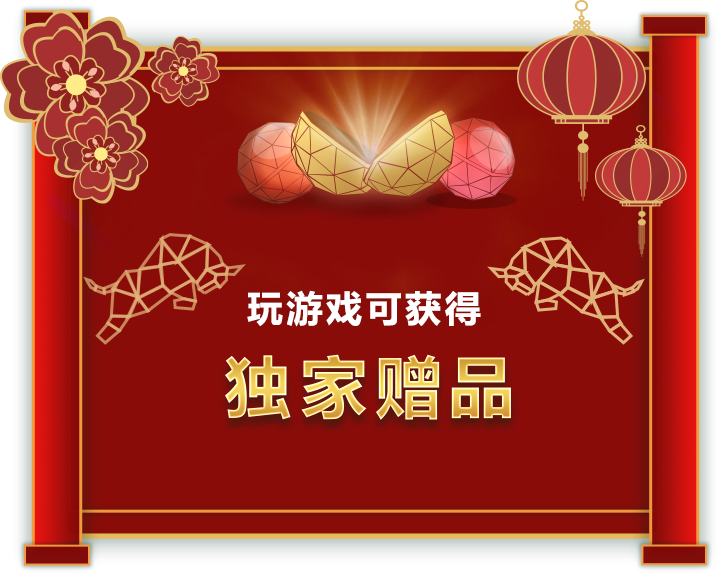
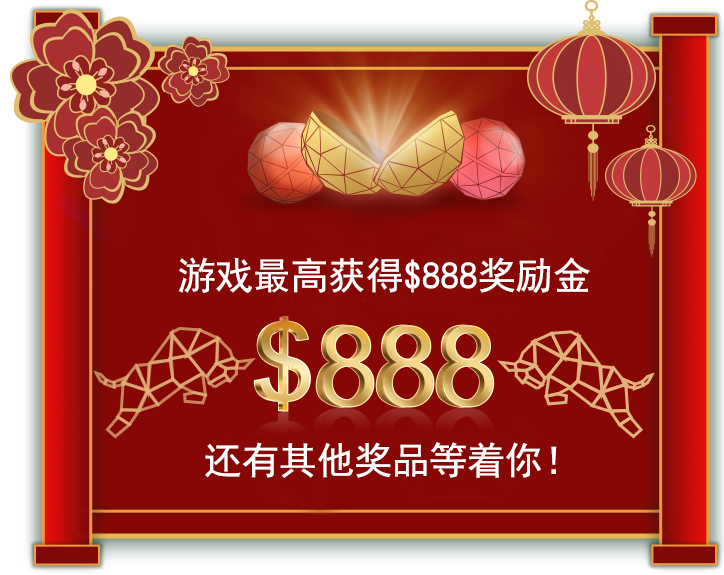
#CN Version content fix, and misaligment fix. prevent Chinese character input in register page.

diff --git a/src/HowToRedeem.ts b/src/HowToRedeem.ts
@@ -10,6 +10,7 @@ class HowToRedeem extends eui.UILayer {
     }
      
     private createView(): void {
+          var _cnt = new egret.DisplayObjectContainer();
           var p1 = createBitmap("how to redeem 1_png");
           var p2 = createBitmap("how to redeem 2_png");
 
@@ -17,9 +18,9 @@ class HowToRedeem extends eui.UILayer {
 
           var prizeRulesBtn = createBitmap("PrizesRulesButton_png");
 
-          middleObject(this.stage.stageWidth,p1);
-          middleObject(this.stage.stageWidth,p2);
-          middleObject(this.stage.stageWidth,tips);
+        //   middleObject(this.stage.stageWidth,p1);
+        //   middleObject(this.stage.stageWidth,p2);
+        //   middleObject(this.stage.stageWidth,tips);
           middleObject(this.stage.stageWidth,prizeRulesBtn);
         
         var p1Height = this.stage.stageHeight * 0.45;
@@ -38,10 +39,22 @@ class HowToRedeem extends eui.UILayer {
 
         //   prizeRulesBtn.y = tips.y + tips.height + 40;
           prizeRulesBtn.y = this.stage.stageHeight * 0.91
-          this.addChild(p1);
-          this.addChild(p2);
-          this.addChild(tips);
+          _cnt.addChild(p1);
+          _cnt.addChild(p2);
+          _cnt.addChild(tips);
+        //   this.addChild(p1);
+        //   this.addChild(p2);
+        //   this.addChild(tips);
           this.addChild(prizeRulesBtn);
+          this.addChild(_cnt);
+            middleObject(this.stage.stageWidth,_cnt);          
+            if(egret.Capabilities.isMobile){
+                if(document.body.clientHeight < Main.smallScaleHeight){   
+                    _cnt.scaleX = 0.8;
+                    _cnt.scaleY = 0.8;
+                    middleObject(this.stage.stageWidth*1.2,_cnt);
+                }
+            }
 
           prizeRulesBtn.touchEnabled = true;
 

diff --git a/src/PrizeAndRules.ts b/src/PrizeAndRules.ts
@@ -154,6 +154,17 @@ class PrizeAndRules extends eui.UILayer {
 
         _that.addChild(myPrizeInfo_cnt);
 
+        _that.addChild(myPrizeInfo_cnt);
+
+        if(egret.Capabilities.isMobile){
+            if(document.body.clientHeight <  Main.smallScaleHeight){
+                myPrizeInfo_cnt.scaleX = 0.8;
+                myPrizeInfo_cnt.scaleY = 0.8;
+                middleObject(this.stage.stageWidth,myPrizeInfo_cnt);
+            }
+         }
+
+
         
         myPrizeInfo_cnt.visible = true;
 
@@ -242,7 +253,24 @@ class PrizeAndRules extends eui.UILayer {
                 //设置viewport
         _scroller.viewport = myRulesInfo_cnt;
 
-        
+   if(egret.Capabilities.isMobile){
+            if(document.body.clientHeight <  Main.smallScaleHeight){
+                var sw = _scroller.width;
+                var sh = _scroller.height;
+                _scroller.width = myRulesInfo_cnt.width * 0.8;
+                _scroller.height = myRulesInfo_cnt.height * 0.8;
+                rules_title_bg.scaleX = 0.8;
+                rules_title_bg.scaleY = 0.8;
+                middleObject(this.stage.stageWidth,_scroller);
+                _scroller.width = sw;
+                _scroller.height = sh;
+                _scroller.scaleX = 0.8;
+                _scroller.scaleY = 0.8;
+                rules_title_bg.x = _scroller.x;
+                rules_title_bg.y = this.prizeBg.y + this.prizeBg.height*0.8 + 40;
+                _scroller.y = rules_title_bg.y + rules_title_bg.height - 20;
+            }
+         }
     }
 
     private toMainPage(){

diff --git a/src/MBSContent.ts b/src/MBSContent.ts
@@ -6,7 +6,7 @@ let mc_content={
     "OX":"小金牛",
     "redPack":" 个滨海湾金沙独家红包封",
     "ENVELOPES":"",
-    "coinsCongTipsText1":"收集满500个虚拟小金牛，",
+    "coinsCongTipsText1":"收集满88个虚拟小金牛，",
     "coinsCongTipsText2":"可获得线下金沙扭蛋机抽奖机会一次",
     "envCongTipsText1":"来自滨海湾金沙的",
     "envCongTipsText2":"滨海湾金沙独家红包封",
@@ -27,7 +27,7 @@ let mc_content={
     "BinSuccess":"新记录已成功登记",
     "Binded":"奖品已经与其他会员绑定，请检查您的输入",
     "BindedBefore":"您的账号已经被绑定过了，请检查您的输入",
-    "Bindfail":"绑定失败。\r\n请稍后再试。",
+    "Bindfail":"网络连接出错。\r\n请稍后再试。",
     "terms1":"  我希望通过信件、电邮、简讯及/或电话搜集，\r\n接收所述的最新营销动态在",
     "terms1_LBox":"此处",
     "terms2":"  我理解并同意金沙尊赏时尚会员计划的条款与条件 以及 对于本人资料的处理，同时保证声明内容    真实有效。",
@@ -46,7 +46,7 @@ let mc_content={
     "eText2":"",
     "eText3":"",
     "eText":"滨海湾金沙独家红包封",
-    "RedeemTime":"请在2021年3月11日之前兑换您的奖品",
+    "RedeemTime":"请在2021年3月31日之前兑换您的奖品",
     "Play":"请开始游戏",
     "TC":"条款与条件。",
     "haveBinded":"你今天已经玩过了,\r\n此次游戏不会被记录",

diff --git a/bin-debug/Info1UI.js b/bin-debug/Info1UI.js
@@ -490,6 +490,12 @@ var Info1UI = (function (_super) {
         var yzmNum;
         this.firstNameText.addEventListener(egret.TouchEvent.TOUCH_TAP, function () {
         }, this);
+        this.firstNameText.addEventListener(egret.TouchEvent.CHANGE, function () {
+            this.firstNameText.text = this.firstNameText.text.replace(/[\u4E00-\u9FA5]|[\uFE30-\uFFA0]/g, '');
+        }, this);
+        this.lastNameText.addEventListener(egret.TouchEvent.CHANGE, function () {
+            this.lastNameText.text = this.lastNameText.text.replace(/[\u4E00-\u9FA5]|[\uFE30-\uFFA0]/g, '');
+        }, this);
         this.mobilePhone.addEventListener(egret.TextEvent.CHANGE, function (evt) {
             var pattern = /^[0-9]*$/;
             while (!pattern.test(this.mobilePhone.text)) {
@@ -623,7 +629,7 @@ var Info1UI = (function (_super) {
         // this.errorText.text = text;
         // this.errorText.alpha = 1
         // egret.Tween.get(this.errorText,{loop:false}).to({alpha:0},2500);
-        ShowConfirmBox(text, "Error", this, callBack);
+        ShowConfirmBox(text, "错误", this, callBack);
     };
     Info1UI.prototype.toMainPage = function () {
         var gameui = ScenceManage.create(this.stage);

diff --git a/src/Info1UI.ts b/src/Info1UI.ts
@@ -629,6 +629,14 @@ class Info1UI extends eui.UILayer {
 
         },this)
 
+       this.firstNameText.addEventListener(egret.TouchEvent.CHANGE,function(){
+                this.firstNameText.text = this.firstNameText.text.replace(/[\u4E00-\u9FA5]|[\uFE30-\uFFA0]/g,'');
+        },this)
+
+       this.lastNameText.addEventListener(egret.TouchEvent.CHANGE,function(){
+                this.lastNameText.text = this.lastNameText.text.replace(/[\u4E00-\u9FA5]|[\uFE30-\uFFA0]/g,'');
+        },this)
+
         this.mobilePhone.addEventListener(egret.TextEvent.CHANGE,function(evt: egret.Event){
                 var pattern = /^[0-9]*$/;
                 while(!pattern.test(this.mobilePhone.text)){
@@ -782,7 +790,7 @@ class Info1UI extends eui.UILayer {
         // this.errorText.text = text;
         // this.errorText.alpha = 1
         // egret.Tween.get(this.errorText,{loop:false}).to({alpha:0},2500);
-        ShowConfirmBox(text,"Error",this,callBack);
+        ShowConfirmBox(text,"错误",this,callBack);
     }
 
     private toMainPage(){

diff --git a/src/Main.ts b/src/Main.ts
@@ -40,8 +40,8 @@ class Main extends egret.DisplayObjectContainer {
     static registLoginShow = false;
     //http://150.109.32.241:4503/
     //"https://staging.marinabaysands.com"
-    static  baseUrl = window.location.protocol +"//" +window.location.host;
-    //  static  baseUrl = "https://staging.marinabaysands.com";
+    //static  baseUrl = window.location.protocol +"//" +window.location.host;
+      static  baseUrl = "https://staging.marinabaysands.com";
     private getProbabilityData = "/services/h5game/property";
     static patronRegisterUrl = "/services/members_card_register"
     static lotteryApi = "/services/h5game/lottery";
@@ -98,6 +98,8 @@ class Main extends egret.DisplayObjectContainer {
     static _baseScale = 1;
 
     static countryList = []
+
+    static smallScaleHeight = 680;
 
     public constructor() {
         super();

diff --git a/src/MyPrizes.ts b/src/MyPrizes.ts
@@ -147,11 +147,18 @@ class MyPrizes extends eui.UILayer {
         tipsContent.x = (this.stage.stageWidth - tipsContent.width)*0.5;
         // tipsContent.y =this.stage.stageHeight * 0.56 + 35;
         tipsContent.y = my_prize_info_bg.y + my_prize_info_bg.height + 35;
-        this.addChild(tipsContent);
+        //this.addChild(tipsContent);
 
-
+        myPrizeInfo_cnt.addChild(tipsContent);
         _that.addChild(myPrizeInfo_cnt);
 
+        if(egret.Capabilities.isMobile){
+            if(document.body.clientHeight <  Main.smallScaleHeight){
+                myPrizeInfo_cnt.scaleX = 0.8;
+                myPrizeInfo_cnt.scaleY = 0.8;
+                middleObject(_that.stage.stageWidth,myPrizeInfo_cnt);
+            }
+        }
         
         myPrizeInfo_cnt.visible = true;
 

diff --git a/bin-debug/Main.js b/bin-debug/Main.js
@@ -278,7 +278,7 @@ Main.laohujiButOnoff = true;
 Main.registLoginShow = false;
 //http://150.109.32.241:4503/
 //"https://staging.marinabaysands.com"
-// static  baseUrl = window.location.protocol +"//" +window.location.host;
+//static  baseUrl = window.location.protocol +"//" +window.location.host;
 Main.baseUrl = "https://staging.marinabaysands.com";
 Main.patronRegisterUrl = "/services/members_card_register";
 Main.lotteryApi = "/services/h5game/lottery";
@@ -307,5 +307,6 @@ Main._baseScaleX = 1;
 Main._baseScaleY = 1;
 Main._baseScale = 1;
 Main.countryList = [];
+Main.smallScaleHeight = 680;
 __reflect(Main.prototype, "Main");
 //# sourceMappingURL=Main.js.map
